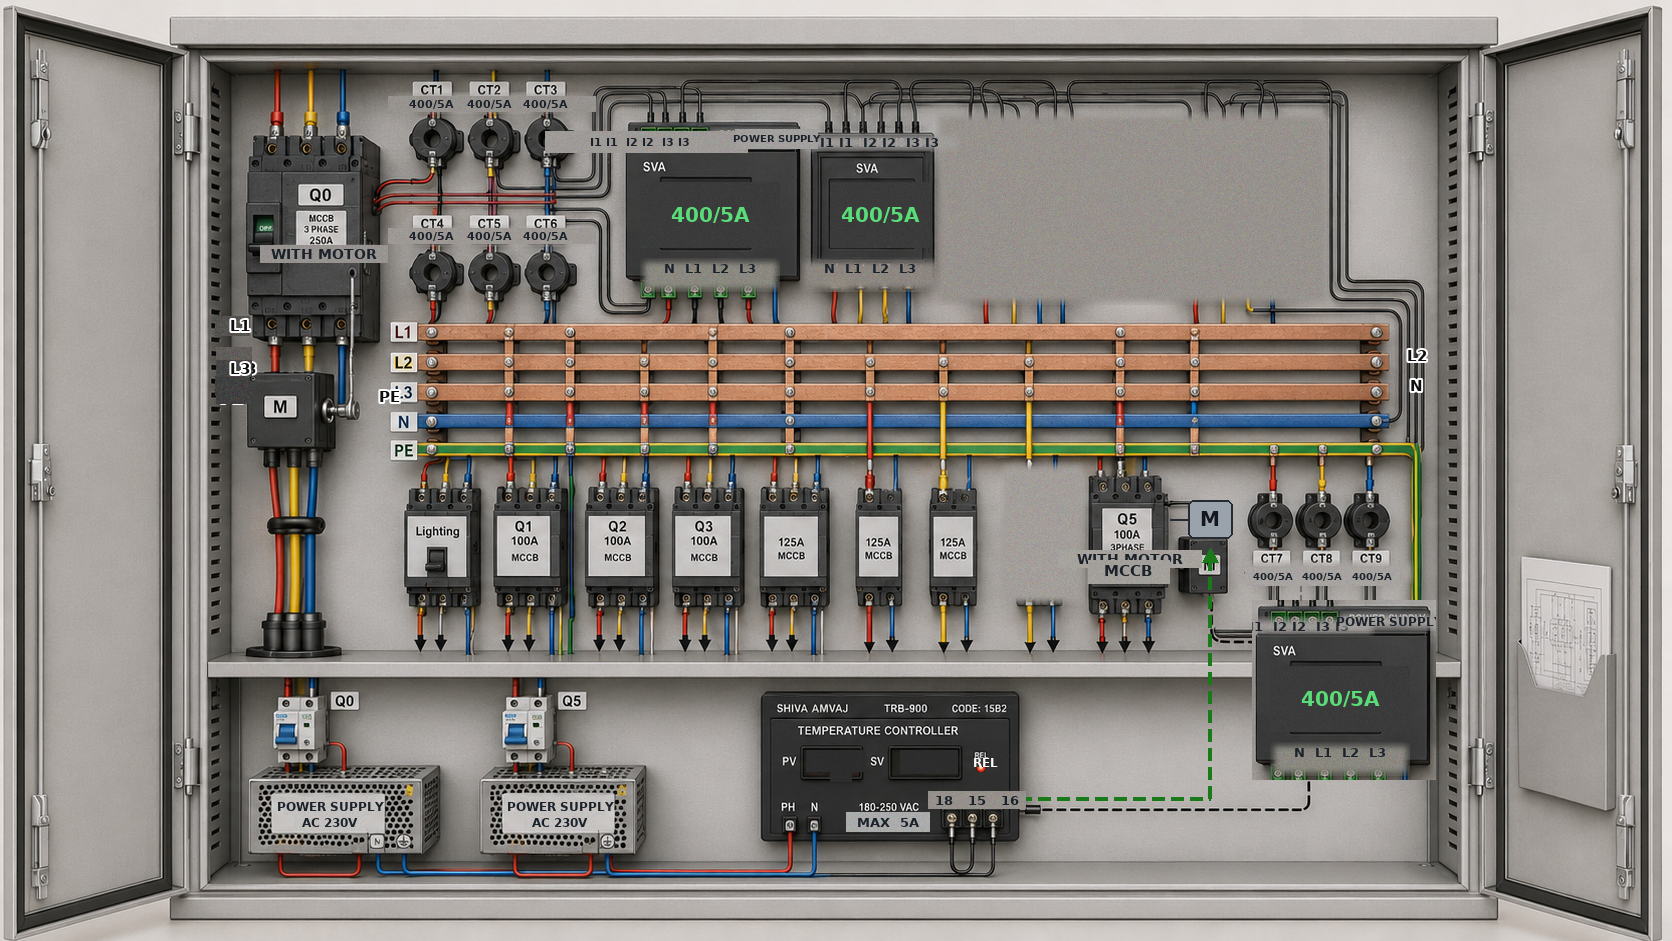
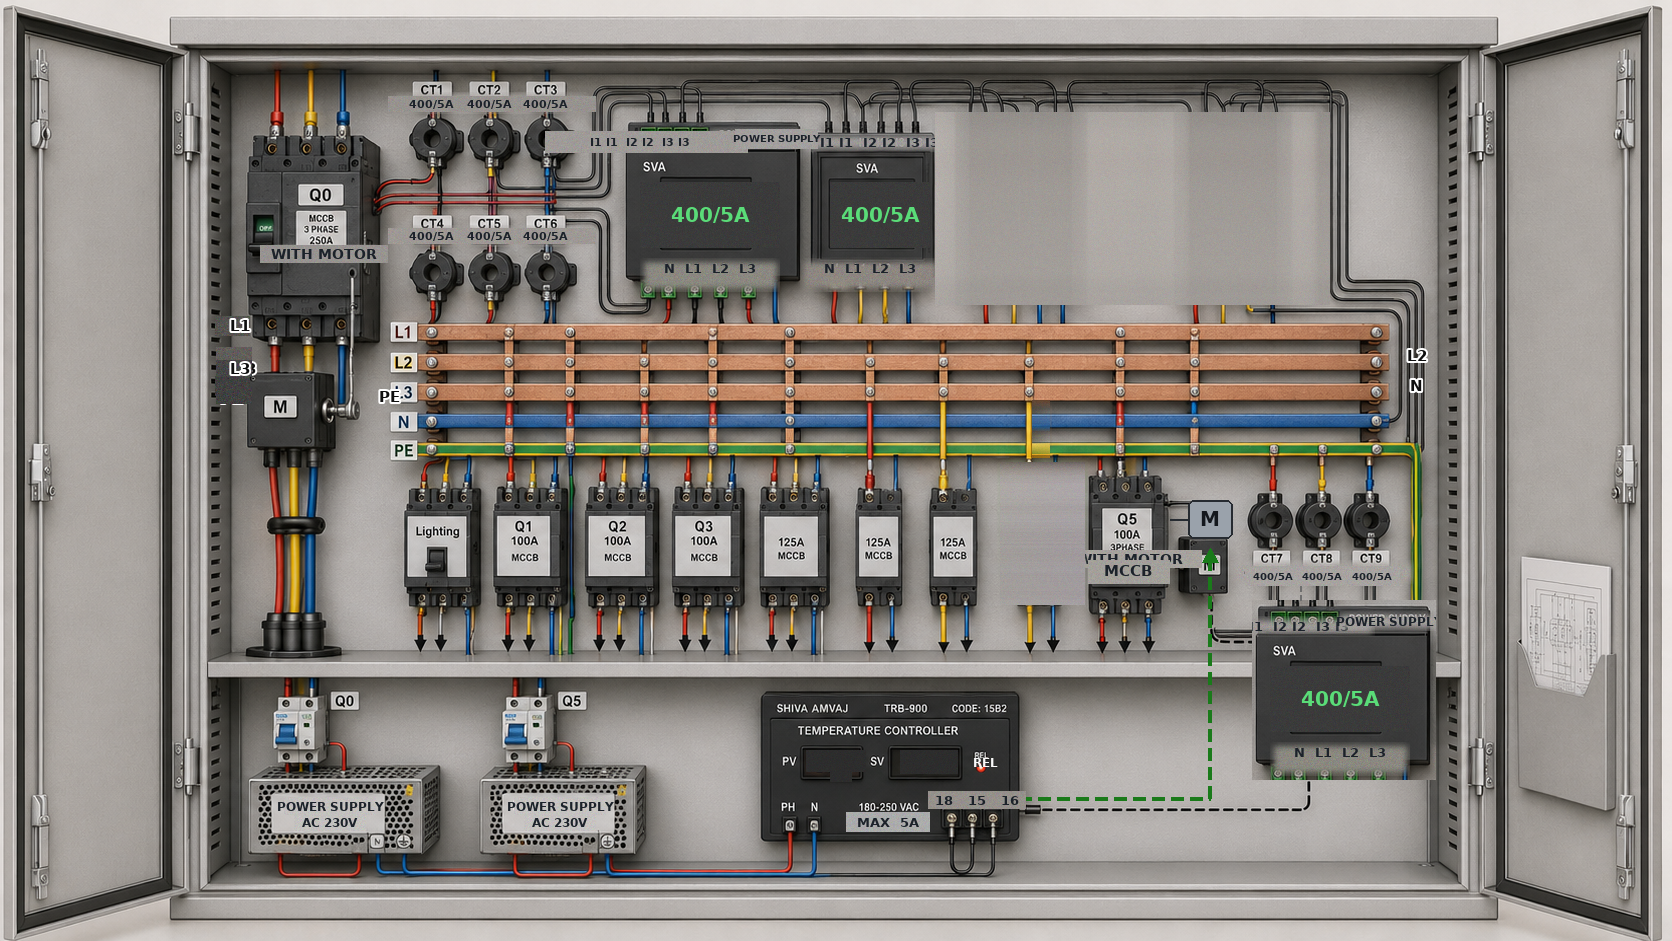
Rebuild removed-area backgrounds gradient-aware (fix matte patch artifact)
- Patch 1 (removed SVA meters zone 935-1330 x 112-305): rebuilt with bright
  compartment profile PROF(y) sampled from real bg right of the cable trunk,
  damped per-column horizontal offsets, matched grain (noise 3.2).
- Patch 2 (removed 4th 125A breaker): per-row anchors from real gap strip
  x986-997 + fitted bg slope (continuity 159.9 vs 160.0).
- Stub conductor above removed breaker erased via per-row L/R interpolation.
- Verified: no green/dark leaks, max interior jump 15 (= noise level),
  OCR checklist unchanged (SVA=3, 125A=3, 100A=4, MCCB=8, MAX 5A, REL,
  TRB-900, 400/5A, busbar labels, WITH MOTOR x2).

Changed region(s): [[0.5598, 0.1233, 0.8086, 0.339]]

diff --git a/render/fix_image_r4.py b/render/fix_image_r4.py
@@ -1,0 +1,95 @@
+"""Round 4: seamless background rebuild for removed-element areas.
+Patch 1 (removed SVA meters 3&4): per-column vertical interpolation between
+  robust, horizontally smoothed reference bands above/below.
+Patch 2 (removed 4th 125A breaker): per-row left anchor from the real gap
+  strip (x986-997) + horizontal bg slope fitted from a clean band above.
+"""
+from PIL import Image
+import numpy as np
+
+P = '/home/user/Bargh/render/panel_final_fixed.png'
+img = np.array(Image.open(P).convert('RGB')).astype(float)
+rng = np.random.default_rng(11)
+
+
+def bad(px):
+    """mask green wire, very dark pixels"""
+    m = px.mean(axis=-1)
+    g = (px[..., 1] > px[..., 0] + 18) & (px[..., 1] > px[..., 2] + 18)
+    return g | (m < 65)
+
+
+def colref_robust(y0, y1, x0, x1):
+    """per-column clean background color from a row band, outlier-trimmed and
+    horizontally smoothed (running median) so cables/shadows don't leak in"""
+    band = img[y0:y1, x0:x1]
+    m = ~bad(band)
+    w = x1 - x0
+    out = np.full((w, 3), np.nan)
+    for j in range(w):
+        v = band[m[:, j], j]
+        if len(v) >= 3:
+            med = np.median(v, axis=0)
+            close = v[np.abs(v - med).mean(axis=1) < 28]
+            out[j] = np.median(close if len(close) >= 3 else v, axis=0)
+    idx = np.arange(w)
+    good = ~np.isnan(out[:, 0])
+    for c in range(3):
+        out[:, c] = np.interp(idx, idx[good], out[good, c])
+    win = 25
+    sm = out.copy()
+    for c in range(3):
+        pad = np.pad(out[:, c], win // 2, mode='edge')
+        sm[:, c] = np.array([np.median(pad[i:i + win]) for i in range(w)])
+    return sm
+
+
+# ---------- PATCH 1 : removed meters, x935..1330 y112..305 ----------
+x0, y0, x1, y1 = 935, 112, 1330, 305
+top = colref_robust(88, 108, x0, x1)
+bot = colref_robust(307, 318, x0, x1)
+h, w = y1 - y0, x1 - x0
+t = np.linspace(0, 1, h)[:, None, None]
+field = top[None] * (1 - t) + bot[None] * t
+img[y0:y1, x0:x1] = np.clip(field + rng.normal(0, 3.2, (h, w, 3)), 0, 255)
+
+# ---------- PATCH 2 : removed 4th 125A, x1000..1085 y462..605 ----------
+x0, y0, x1, y1 = 1000, 462, 1085, 605
+h, w = y1 - y0, x1 - x0
+L = np.full((h, 3), np.nan)
+for i, y in enumerate(range(y0, y1)):
+    v = img[y, 986:998]
+    m = ~bad(v[None, :])[0]
+    if m.sum() >= 4:
+        L[i] = np.median(v[m], axis=0)
+ok = ~np.isnan(L[:, 0])
+yy = np.arange(h)
+for c in range(3):
+    L[:, c] = np.interp(yy, yy[ok], L[ok, c])
+# horizontal bg slope from clean band above feeder row
+band = img[438:452, 950:1250]
+m = ~bad(band)
+ys, xs = np.where(m)
+vals = band[m]
+A = np.stack([xs.astype(float), np.ones_like(xs, dtype=float)], 1)
+slope = np.linalg.lstsq(A, vals, rcond=None)[0][0]
+print('bg slope per 100px:', (slope * 100).round(1))
+xr = (np.arange(x0, x1) - 992)[None, :, None].astype(float)
+field = L[:, None, :] + slope[None, None, :] * xr
+img[y0:y1, x0:x1] = np.clip(field + rng.normal(0, 3.2, (h, w, 3)), 0, 255)
+
+Image.fromarray(img.astype(np.uint8)).save(P)
+
+# ---------- verify ----------
+b = np.array(Image.open(P).convert('L')).astype(float)
+print('P1 row200:', {c: int(b[200, c]) for c in [933, 936, 1050, 1200, 1290, 1329, 1331, 1335]})
+print('P1 row290:', {c: int(b[290, c]) for c in [936, 1050, 1200, 1329]})
+print('P2 row means:', {y: int(b[y, 1005:1086].mean()) for y in [462, 470, 500, 540, 570, 595, 604]})
+print('P2 gap / fill-left / fill-right @row500:',
+      int(b[500, 986:998].mean()), int(b[500, 1000:1012].mean()), int(b[500, 1073:1085].mean()))
+print('P2 bottom edge 604/605:', int(b[604, 1005:1086].mean()), int(b[605, 1005:1086].mean()))
+print('P1 interior max col-jump:', int(np.abs(np.diff(b[150:290, 940:1325], axis=1)).max()))
+print('P2 interior max col-jump:', int(np.abs(np.diff(b[465:600, 1005:1082], axis=1)).max()))
+g2 = np.array(Image.open(P).convert('RGB')).astype(float)[462:605, 1000:1085]
+grn = (g2[:, :, 1] > g2[:, :, 0] + 20) & (g2[:, :, 1] > g2[:, :, 2] + 20)
+print('green inside P2:', int(grn.sum()))
